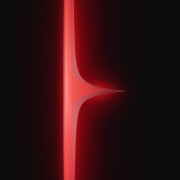
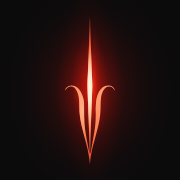
The header's emblem is the club's glowing flower; the closing invitation is one card
- Header and phone menu: the club's glowing flower (its own "Flower Glow" artwork, Flower.astro) stands at the
  bar's left end in place of the name plate, free of any plate, with a soft patch of the page's black behind it so
  it reads over photographs too. The site's icon and touch icon are the same flower. The bar's tightening steps
  begin 110px later now that the wide plate is gone (at least 40px to spare at every width from 900 up).
- "Your table is waiting": one card on the page's column instead of three things apart (the hall edge to edge and
  dimmed, a tag pinned on it over the title, the line and buttons alone in the far third). The words in one stack
  on the left, title at the head, line and buttons at the foot; the hall's picture beside them with clean edges.
  A phone: picture on top, buttons the card's width. Sized by the card's own width, so the title fits in both
  languages at every width.

Claude-Session: https://claude.ai/code/session_01YTme9jowzxyuXX2JxSBXP4

Changed region(s): [[0.25, 0.0, 0.6944, 1.0]]

diff --git a/src/styles/global.css b/src/styles/global.css
@@ -750,63 +750,46 @@ a.row:hover .k { color: #fff; }
 /* The closing invitation is a section like any other: the section's air (--sec-y) above it, and again under its
    buttons before the footer's own surface begins (footers.css), as a band of charcoal has it */
 .ft { padding-top: var(--sec-y); background: var(--black); overflow-x: clip; } /* (the sign's light reaches past its column; it must never widen the page) */
-/* The closing invitation: the hall seen from a guest's seat, edge to edge. When it comes into view the
-   room dims and a warm spotlight opens on one table by the stage, marked "your table"; the words and the
-   two buttons sit in the dark under it. (Footer.astro adds .lit.) */
-@property --spot { syntax: '<percentage>'; inherits: true; initial-value: 0%; }
-@property --dim { syntax: '<number>'; inherits: true; initial-value: 0; }
+/* ---------- The closing invitation (Footer.astro) ----------
+   One card on the page's column, like the site's other cards: a dark plate with large soft corners, and inside it,
+   a little in from its edge, two halves. On the left the words in one stack: the title at the card's head, the
+   line and the two buttons at its foot. On the right the hall from a guest's seat, a picture with clean edges in
+   its own colour; the stage's red reaches a little way onto the plate beside it. Everything is sized by the card's
+   own width (cqw), so the title always fits its half, in Russian and in English, from a tablet to the widest
+   screen. A phone: the picture on top, the words under it, the two buttons the card's width. */
 .ft-cta { padding-bottom: var(--sec-y); }
+.cta-card {
+  --cta-in: clamp(8px, .9vw, 12px);
+  container-type: inline-size;
+  display: grid; grid-template-columns: minmax(0, 45fr) minmax(0, 55fr);
+  padding: var(--cta-in); border-radius: var(--r-5);
+  background:
+    radial-gradient(52% 95% at 100% 62%, rgba(124, 14, 42, .3), rgba(101, 8, 31, 0) 72%),
+    linear-gradient(160deg, #1c1d20 0%, #131416 52%, #0f1011 100%);
+  box-shadow: inset 0 0 0 1px rgba(230, 231, 233, .08), inset 0 1px 0 rgba(255, 255, 255, .07);
+}
+.cta-words { display: grid; align-content: space-between; justify-items: start; gap: clamp(28px, 5cqw, 64px); padding: clamp(18px, 3.4cqw, 46px) clamp(12px, 3.2cqw, 44px) clamp(18px, 3.2cqw, 44px); }
+.cta-card .cta-h { font-size: clamp(34px, 6.6cqw, 90px); }
+.cta-h em { display: block; }
+.cta-act { display: grid; justify-items: start; gap: clamp(16px, 1.9cqw, 26px); }
+.cta-act .lead { max-width: 30ch; text-wrap: pretty; }
+/* (the picture: its corners follow the card's, a card's edge in from it. It is drawn a quarter larger than its
+   frame from its left edge, so the frame holds the table, the champagne and the stage behind them, and leaves
+   out the photograph's right fifth and its top: a sheet of white paper lies on the table there and shone in the
+   picture's corner) */
+.cta-shot.photo { aspect-ratio: auto; min-height: clamp(300px, 37cqw, 520px); border-radius: calc(var(--r-5) - var(--cta-in)); --bg: #0b0b0c; }
+.cta-shot img { object-position: 24% 62%; transform: scale(1.3); transform-origin: 0% 85%; }
 @media (max-width: 899px) {
   .ft-cta { padding-bottom: calc(2 * var(--sec-y)); }
-  /* the two buttons one width, the wider one's */
-  .ft-cta .btns { display: grid; justify-items: stretch; width: max-content; max-width: 100%; }
+  .cta-card { grid-template-columns: minmax(0, 1fr); }
+  .cta-shot.photo { order: -1; min-height: 0; aspect-ratio: 4 / 3; }
+  .cta-shot img { object-position: 30% 60%; transform: scale(1.26); }
+  .cta-words { gap: 22px; padding: 22px 12px 12px; }
+  .cta-card .cta-h { font-size: clamp(34px, 14.4cqw, 76px); }
+  .cta-act { justify-items: stretch; width: 100%; gap: 18px; }
+  /* the two buttons one under the other, the card's width */
+  .cta-act .btns { display: grid; gap: 10px; }
 }
-.invite-room {
-  /* Edge to edge at any width: the height is set outright (an aspect ratio with a max-height would narrow the
-     room on wide screens). The photo is cropped by --ox --oy; the spotlight and the pin follow the champagne
-     bucket of the table in the foreground (--bx --by, its place in invite-table.webp, 16:9) wherever the crop
-     puts it: --iw --ih are the photo's drawn size, as with object-fit: cover. */
-  --ox: .5; --oy: .55; --bx: .3; --by: .68;
-  --iw: max(100cqw, 177.78cqh); --ih: max(56.25cqw, 100cqh);
-  --sx: calc((100cqw - var(--iw)) * var(--ox) + var(--bx) * var(--iw));
-  --sy: calc((100cqh - var(--ih)) * var(--oy) + var(--by) * var(--ih));
-  container-type: size;
-  --room-h: clamp(300px, calc(100svh - 340px), 56.25vw);
-  position: relative; isolation: isolate; overflow: hidden; height: var(--room-h); background: #000;
-  /* the hall's top fades in from black: it starts half that fade higher, so what can be seen of it begins the
-     same air under the section before as any section's first line does */
-  margin: calc(-.06 * var(--room-h)) calc(50% - 50vw) 0;
-  -webkit-mask-image: linear-gradient(180deg, transparent 0%, #000 14%, #000 70%, transparent 100%); mask-image: linear-gradient(180deg, transparent 0%, #000 14%, #000 70%, transparent 100%);
-}
-.invite-room img { position: absolute; inset: 0; width: 100%; height: 100%; object-fit: cover; object-position: calc(var(--ox) * 100%) calc(var(--oy) * 100%); }
-.invite-dim {
-  position: absolute; inset: 0; z-index: 1; pointer-events: none;
-  background:
-    radial-gradient(circle at var(--sx) var(--sy), rgba(255, 200, 150, .3) 0%, rgba(255, 200, 150, 0) calc(var(--spot) * .9)),
-    radial-gradient(circle at var(--sx) var(--sy), rgba(0, 0, 0, 0) 0%, rgba(0, 0, 0, 0) var(--spot), rgba(0, 0, 0, calc(.66 * var(--dim))) calc(var(--spot) + 15%));
-  transition: --spot 1.8s var(--ease-out) .3s, --dim 1.3s ease;
-}
-.invite-room.lit { --spot: 8%; --dim: 1; }
-.invite-pin { position: absolute; z-index: 2; left: var(--sx); top: var(--sy); display: flex; align-items: center; gap: 12px; translate: -7px -50%; opacity: 0; transition: opacity .7s ease 1.3s; }
-.invite-room.lit .invite-pin { opacity: 1; }
-/* (the mark beside the words: a short upright line of the red light. It was a glowing dot with a pulsing ring,
-   which looked like something to press) */
-.invite-pin i { position: relative; flex: none; width: 1.5px; height: 22px; margin: 0 6px; background: linear-gradient(180deg, transparent, var(--light) 22%, #ffd9dd 50%, var(--light) 78%, transparent); filter: drop-shadow(0 0 5px rgba(255, 43, 61, .8)); }
-.invite-pin b { padding: 9px 16px; border-radius: var(--pill); font: 600 15px/1 var(--sans); color: #fff; white-space: nowrap; background: rgba(12, 12, 14, .55); -webkit-backdrop-filter: blur(10px); backdrop-filter: blur(10px); border: 1px solid rgba(255, 255, 255, .2); }
-/* (two columns on the posters' own grid: the words and the buttons start where the third poster starts, the
-   page's two-thirds line) */
-.ft-cta-in { --g: clamp(16px, 2vw, 28px); position: relative; z-index: 1; display: grid; grid-template-columns: calc((100% - 2 * var(--g)) * 2 / 3 + var(--g)) minmax(0, 1fr); align-items: end; gap: 22px var(--g); margin-top: calc(-1 * clamp(20px, 3vw, 56px)); }
-.ft-cta-in .ft-cta-h { font-size: clamp(52px, 6.2vw, 100px); text-wrap: balance; }
-/* the line and the two buttons, level with the title's foot */
-.ft-cta-side { display: grid; justify-items: start; gap: 18px; padding-bottom: .5em; }
-.ft-cta-side .lead { max-width: 34ch; text-wrap: pretty; }
-@media (max-width: 899px) {
-  .invite-room { --ox: .3; --oy: .5; --room-h: 75vw; height: auto; aspect-ratio: 4 / 3; } /* (edge to edge, so 4:3 is 75vw tall) */
-  .invite-pin b { font-size: 14px; padding: 8px 13px; }
-  .ft-cta-in { grid-template-columns: 1fr; gap: 16px; margin-top: -8px; }
-  .ft-cta-side { padding-bottom: 0; }
-}
-@media (prefers-reduced-motion: reduce) { .invite-dim, .invite-pin { transition: none; } }
 .ft-cols { display: grid; grid-template-columns: repeat(4, minmax(0, 1fr)); gap: 36px var(--gap); padding: 32px 0 clamp(40px, 4.5vw, 64px); border-top: 1px solid var(--rule); }
 .ft.no-cta { padding-top: 0; } /* (the page's last section has its air under it; then the footer's surface) */
 .ft.no-cta .ft-cols { padding-top: 0; border-top: 0; }

diff --git a/src/styles/nav.css b/src/styles/nav.css
@@ -56,15 +56,27 @@
 }
 .hdr-in > * { pointer-events: auto; }
 
-/* the name: the club's logo, its sign breaking through the plate's edge (Logo.astro, sign="short") */
-.hdr-name { justify-self: start; flex: none; display: grid; place-items: center; height: 46px; padding: 0 18px; border-radius: var(--pill); transition: background-color .3s ease; }
-@media (hover: hover) { .hdr-name:hover { background-color: rgba(44, 45, 48, .66); } }
+/* the club's emblem, its glowing flower (Flower.astro): the way home. It stands free, as the club's own picture
+   of it does, with no plate and no rim: on the site's dark pages it is the lily and its glow, nothing else. Behind
+   it lies a soft patch of the page's own black with no edge to it (::before), unseen on black, so that over a
+   photograph the lily still stands on dark. (Until 2026-11-20 this was a glass plate with the name, HOTLAND with
+   its sign; the club asked for the flower here. The name with its sign is the door's, the footer card's, the
+   member cards'.) */
+.hdr-name { position: relative; isolation: isolate; justify-self: start; flex: none; display: grid; place-items: center; width: 48px; height: 64px; }
+.hdr-name::before {
+  content: ''; position: absolute; z-index: -1; inset: -10px -22px; border-radius: 50%; pointer-events: none;
+  background: radial-gradient(closest-side, rgba(9, 9, 10, .92) 0%, rgba(9, 9, 10, .86) 40%, rgba(9, 9, 10, .52) 70%, rgba(9, 9, 10, 0) 100%);
+}
+/* (the flower: its box is the lily's own, a third as wide as it is tall; the glow is drawn outside it) */
+.flower { display: block; width: auto; height: 60px; aspect-ratio: 48.03 / 141.04; overflow: visible; }
+.hdr-name .flower { transition: filter .35s ease; }
+@media (hover: hover) { .hdr-name:hover .flower { filter: brightness(1.18); } }
+.hdr-name:active .flower { scale: .96; }
 /* the club's logo (Logo.astro): its box is the capitals' box (thin capitals set very wide: 16 times as wide as
    they are tall), and the glowing sign is drawn outside it. --logo-ink: the letters in another tone than the
    club's own pale grey, where the ground asks for it (the logo for dark ground only) */
 .logo { display: block; width: auto; height: 12px; aspect-ratio: 756.7 / 47.4; overflow: visible; }
 .logo-light .logo-letters > * { fill: var(--logo-ink, #b0b1b3); }
-.hdr-name .logo { height: 12px; filter: drop-shadow(0 1px 2px rgba(0, 0, 0, .7)); }
 
 /* the sections: a floating glass capsule; the current page is a light pill */
 .hdr-nav { position: relative; display: flex; align-items: center; gap: 2px; padding: 4px; border-radius: var(--pill); }
@@ -121,40 +133,31 @@
 .hdr-menu.is-close i::after { translate: 0 -3.2px; rotate: -45deg; }
 .hdr-menu:active { scale: .96; }
 
-/* narrower desktops: the capsule tightens so everything stays on one line */
-/* (and the club's logo, 15 times as wide as it is tall, is set a step smaller in its plate: at 12px it is 184px wide,
-   and from 1100 down the three plates no longer fitted the bar) */
-@media (max-width: 1239px) { .hdr-nav a { padding: 0 13px; } .hdr-name .logo { height: 10px; } }
-@media (min-width: 900px) and (max-width: 1151px) { .hdr-name { padding: 0 12px; } .hdr-name .logo { height: 9px; } }
-/* (each step begins a little before the bar runs out: the Russian bar, the longer of the two, has at least 10px to
-   spare at every width from 900 up; measured by sweeping the window's width, 2026-11-20) */
-@media (max-width: 1129px) {
+/* narrower desktops: the capsule tightens so everything stays on one line. (With the flower in place of the name
+   plate, which was four times as wide, each step now begins 110px later than it did and the last one is only for
+   a tablet on its side; the Russian bar, the longer of the two, has at least 40px to spare at every width from
+   900 up, swept in 4px steps, 2026-11-20.) */
+@media (max-width: 1129px) { .hdr-nav a { padding: 0 13px; } }
+@media (max-width: 1059px) {
   .hdr-in { column-gap: 10px; }
   .hdr-nav a { padding: 0 11px; font-size: 11.5px; }
   .hdr-r { gap: 8px; }
   .seg a { min-width: 36px; padding: 0 8px; font-size: 11.5px; }
   .hdr-book { padding: 0 16px; font-size: 12px; }
 }
-@media (max-width: 1059px) {
+@media (min-width: 900px) and (max-width: 959px) {
   .hdr-in { column-gap: 6px; }
   .hdr-nav { gap: 0; }
   .hdr-nav a { padding: 0 8px; font-size: 11px; letter-spacing: .1em; }
-}
-/* the narrowest desktop (a tablet on its side): every plate a step tighter, so none touches its neighbour */
-@media (min-width: 900px) and (max-width: 959px) {
-  .hdr-name { padding: 0 10px; }
-  .hdr-name .logo { height: 8.2px; }
-  .hdr-nav a { padding: 0 6px; }
-  .seg a { min-width: 32px; padding: 0 6px; }
-  .hdr-book { padding: 0 12px; }
 }
 
 @media (max-width: 899px) {
   .hdr-in { display: flex; justify-content: space-between; column-gap: 12px; }
   .hdr-nav, .hdr-lang, .hdr-book { display: none; }
   .hdr-menu { display: inline-flex; }
-  .hdr-name { height: 44px; padding: 0 14px; }
-  .hdr-name .logo { height: 9.5px; }
+  .hdr-name { width: 44px; height: 52px; }
+  .hdr-name::before { inset: -8px -18px; }
+  .hdr-name .flower { height: 48px; }
   /* phones: a shorter, denser fade that ends just past the header, over the top padding of the menu page's pinned tabs */
   .hdr::before {
     inset: 0 0 -10px;
@@ -186,8 +189,6 @@
 /* the narrowest phones (under 360px): the club's wide logo a step smaller in its plate, here and in the bar, so the
    sheet's cross is on the screen and the bar keeps its right margin (at 320px the cross was cut off) */
 @media (max-width: 359px) {
-  .hdr-name { padding: 0 11px; }
-  .hdr-name .logo { height: 8px; }
   .mnav-top, .mnav-top-r { gap: 6px; }
   .mnav-top .seg a { min-width: 40px; }
 }

diff --git a/README.md b/README.md
@@ -145,14 +145,15 @@ After the club's brand board (November 2026): a dark concrete wall, the name in 
 - **No overline text:** no small caps labels above headings, no breadcrumbs, no rules over titles. A section starts with its heading.
 - **Photography:** shown big, in its own colour, with clean edges (no feathered masks that turn a picture into a soft blob) and the cards' rounded corners where a picture stands as a card, with a hairline rim where pictures stand side by side; a full-bleed band may still fade into the page at its foot. Text never sits on a photo.
 - **Artists' stage** (`ModelsStage.astro`, `styles/spotlight.css`): crisp portraits in a row, the middle one lit, the rest dimmed by brightness only (no blur, no spotlight cone); the name under the light carries the red line.
-- **The club's logo** (2026-11-20, from the files the club sent: logo for dark and for light ground, sign, flower; the brand book is still to come). It is set as the club drew it, glow and all: `Logo.astro` puts the club's own shapes and gradients into the page (`src/data/art.ts`, written from the club's SVG files by `tools/logo/art.py`; the files themselves are not in the repository). Where it stands: the 18+ door (whole, see above), the header's plate and the phone menu's (the sign breaks through the plate's edge), the member cards (whole; the steel card carries the version for light ground, the black and bordeaux ones the version for dark ground), the footer's card and the booking page's card (the sign kept close to the name), the goodbye page (whole, burning low; it comes up while the way back is under the pointer), the site's icon and the share previews. The phone's home header and the door's letters are the same capitals as outlines (`data/wordmark.ts`, `LOGO`, read out of the club's SVG by `tools/logo/conv.py`), so each letter can light on its own.
+- **The club's logo** (2026-11-20, from the files the club sent: logo for dark and for light ground, sign, flower; the brand book is still to come). It is set as the club drew it, glow and all: `Logo.astro` puts the club's own shapes and gradients into the page (`src/data/art.ts`, written from the club's SVG files by `tools/logo/art.py`; the files themselves are not in the repository). Where it stands: the 18+ door (whole, see above), the member cards (whole; the steel card carries the version for light ground, the black and bordeaux ones the version for dark ground), the footer's card and the booking page's card (the sign kept close to the name), the goodbye page (whole, burning low; it comes up while the way back is under the pointer) and the share previews. The phone's home header and the door's letters are the same capitals as outlines (`data/wordmark.ts`, `LOGO`, read out of the club's SVG by `tools/logo/conv.py`), so each letter can light on its own.
   - Two things in the club's logo file for dark ground (`01_Logo Light.svg`) are put right by `art.py`, both checked against the club's own PNG: the file was exported with one decimal place, which put a hard step across the needle and lost the white-hot middle of the reflection at the L's foot. The sign is therefore taken from the club's `Sign Glow.svg` (the same sign, written finer) and the reflection's stop is set back. The top of `art.py` has the details.
   - The home header's giant word is still our own lettering, not the logo. If the brand book does not allow a second lettering of the name, that word is the place to change.
-- **The sign where room is short** (`Logo.astro`, `sign`): `full` is the whole needle, five capitals above the name and five below (the door, the member cards, the goodbye page). `short` is whole for two capitals each way and gone by three: in the header's plate it breaks through the plate's edge and dies away just outside it. `tight` stays within about a capital of the name, where a line is set close under it (the footer's card, the booking page's card). The fades are two masks in `Base.astro` (`#hl-short`, `#hl-tight`).
-- **The logo is 16 times as wide as it is tall**, so the header's plate sets it in steps: 12px tall from 1240px up, 10px to 1152, 9px to 960, 8.2px to 900, 9.5px on phones. The bar's other tightening steps (`nav.css`) begin a little before the bar runs out: the Russian bar, the longer of the two, has at least 10px to spare at every width from 900 up (swept in 2px steps).
-- **Favicon and touch icon:** the club's glowing sign on black, seen close (whole it is a hair in a square): the needle through the square's height and the spur, the L's foot, a third of the square wide. `tools/icon/icon.mjs` writes `public/favicon.svg` from `src/data/art.ts` and rasterises `apple-touch-icon.png` from it. **The flower** is used once: tall and faint on the door's wall, at its left edge, as the club's own sheet sets it.
+- **The sign where room is short** (`Logo.astro`, `sign`): `full` is the whole needle, five capitals above the name and five below (the door, the member cards, the goodbye page). `tight` stays within about a capital of the name, where a line is set close under it (the footer's card, the booking page's card). `short` is whole for two capitals each way and gone by three, for the name in a plate, where it breaks through the plate's edge; no page sets it at present (the header's plate carried it until the flower took its place). The fades are two masks in `Base.astro` (`#hl-short`, `#hl-tight`).
+- **The header's emblem is the club's glowing flower** (2026-11-20, the club's wish; `Flower.astro`, the club's own "Flower Glow" artwork from `data/art.ts`): the lily and its glow at the bar's left end and in the phone menu, the way home. It stands free, with no plate and no rim, as the club's picture of it does; a soft patch of the page's black lies behind it, unseen on black, so that over a photograph it still stands on dark. It is 60px tall in the bar (48px on a phone). With the wide name plate gone the bar's tightening steps (`nav.css`) begin 110px later: the Russian bar, the longer of the two, has at least 40px to spare at every width from 900 up (swept in 4px steps).
+- **Favicon and touch icon:** the same flower on black, so the tab and the page carry one mark. `tools/icon/icon.mjs` writes `public/favicon.svg` from `src/data/art.ts` and rasterises `apple-touch-icon.png` from it. The flower also stands tall and faint on the door's wall, at its left edge, as the club's own sheet sets it.
+- **The closing invitation** ("Your table is waiting", `Footer.astro`, at the foot of every page that does not end in its own form): one card on the page's column. Its words stand in one stack on the left, the title at the card's head, the line and the two buttons at its foot; beside them the hall from a guest's seat as a picture with clean edges, set a card's edge in from the card. A phone: the picture on top, the two buttons the card's width. Everything in it is sized by the card's own width, so the title fits its half in both languages at every width. (It was the hall edge to edge and dimmed, a "your table" tag pinned on it just over the title, and the line and the buttons alone in the far third of the page.)
 - **A phone's home header has no buttons of its own** (2026-11-20): a "Book" is always on a phone's screen already, the dock under the thumb (under 900px wide) or the bar's own button on a phone held sideways, and with the header's "Book a table" there were two on one screen. So under 900px wide, and on any screen held sideways and 500px tall or less, the header is the name, the film and one line of words. On an upright phone the gap with the film runs 70px further down for it; where the big word stands on one line, the word is placed lower, with the free room split two to one again. The dock's "Book" is always the burgundy button (it used to go quiet while the header's was on screen). From 900px up the header keeps its two buttons.
-- **Building blocks:** `Header`, `Logo`, `PageTitle`, `PosterCard`, `MemberCards`, `Photo`, `AgeGate`.
+- **Building blocks:** `Header`, `Logo`, `Flower`, `PageTitle`, `PosterCard`, `MemberCards`, `Photo`, `AgeGate`.
 
 Media from earlier design rounds is kept in `_unused/` (ignored by git, not published).
 
